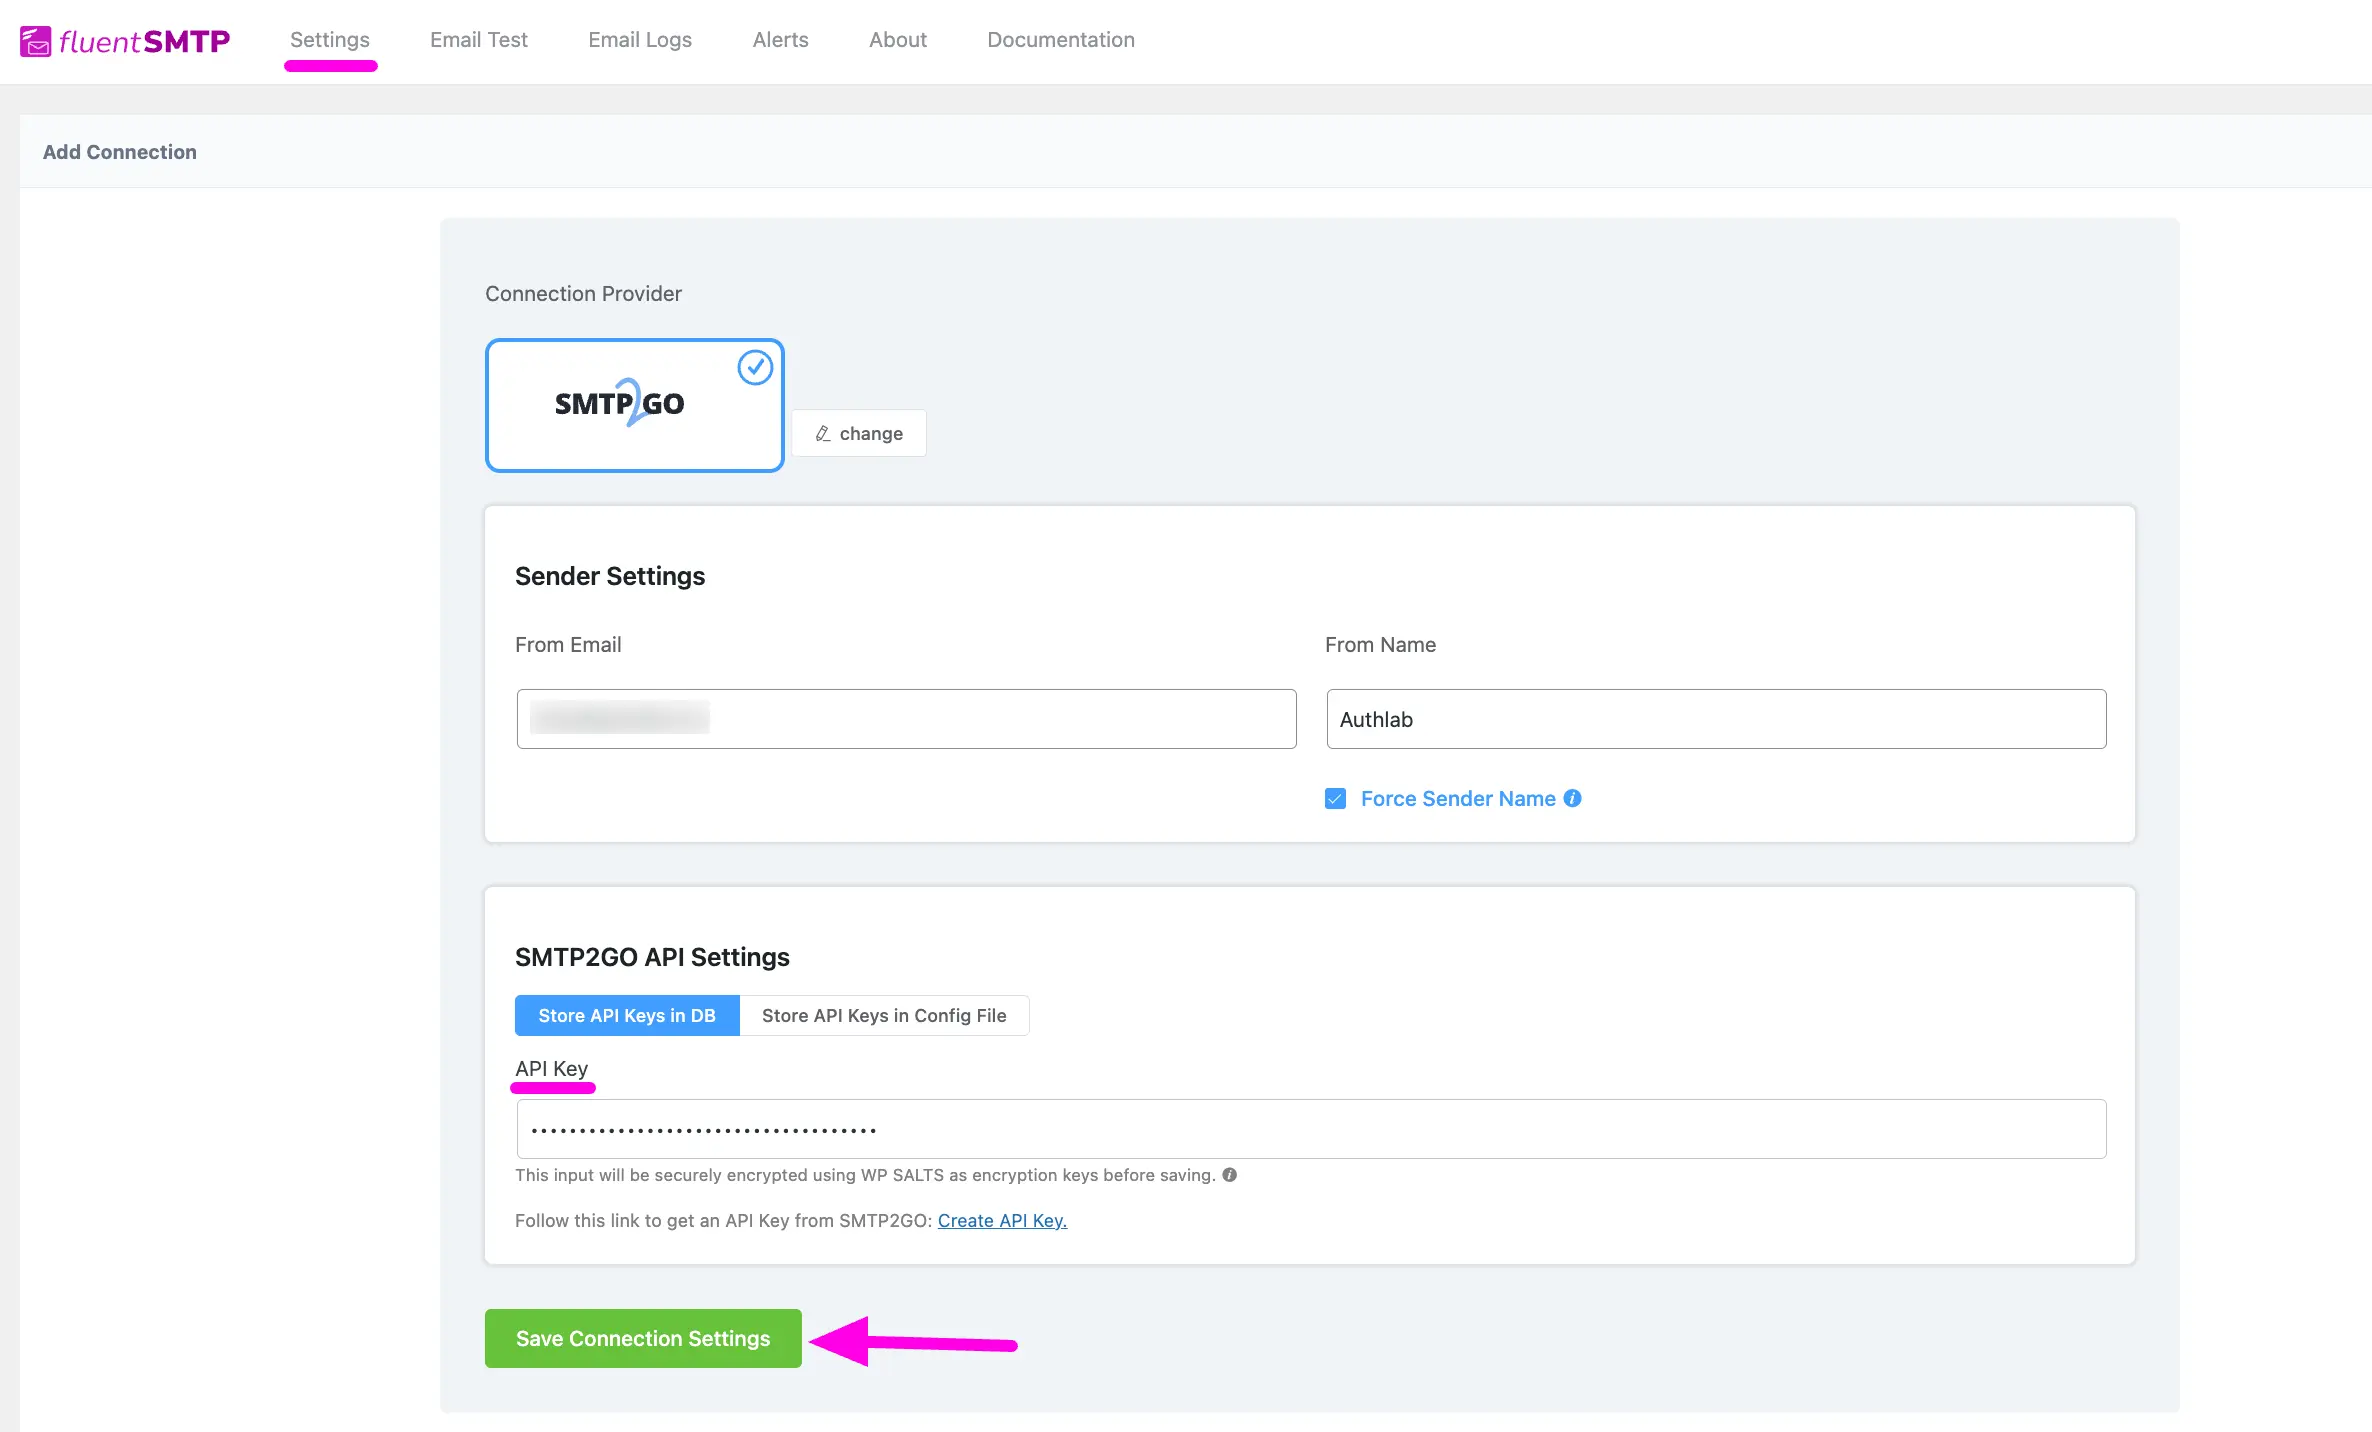
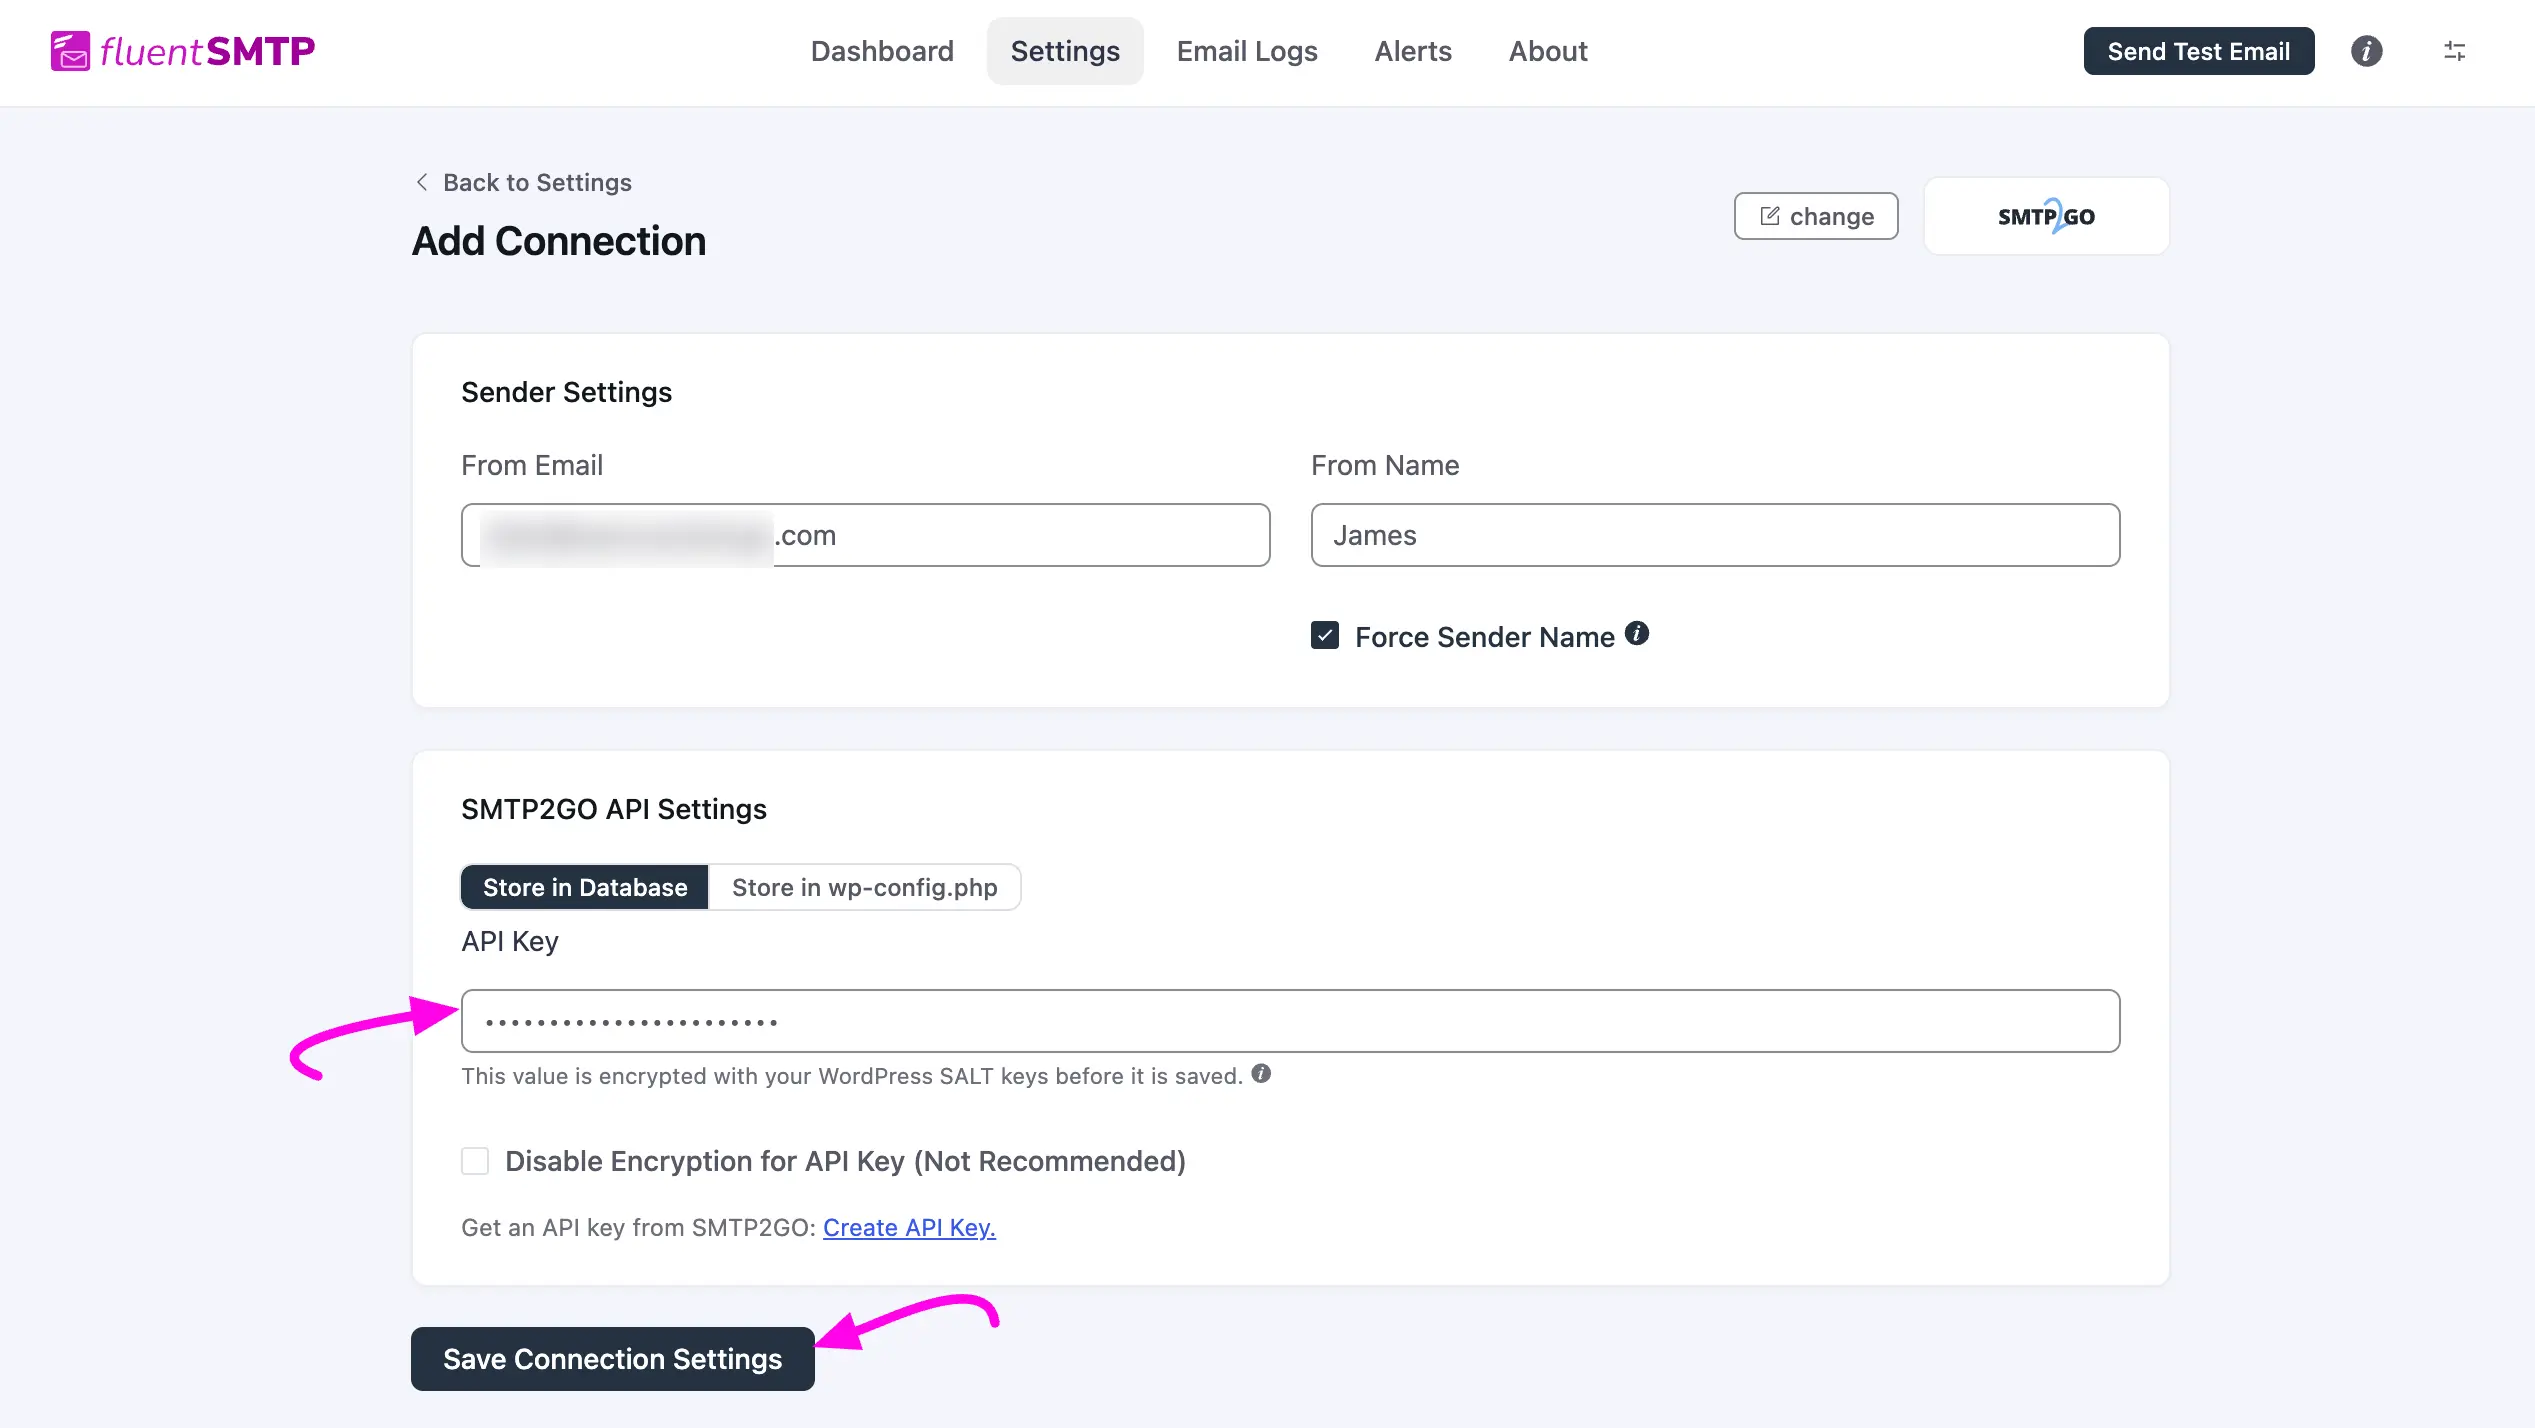
rewrite and image update Configure SMTP2GO in FluentSMTP to Send Emails doc

diff --git a/docs/delivery-connections/configure-smtp2go-in-fluentsmtp-to-send-emails.md b/docs/delivery-connections/configure-smtp2go-in-fluentsmtp-to-send-emails.md
@@ -1,100 +1,84 @@
 # Configure SMTP2GO in FluentSMTP to Send Emails
 
-With FluentSMTP, you can integrate SMTP2GO into WordPress to improve email deliverability and authenticity. SMTP2GO is a reliable email delivery service that helps businesses and website owners send emails successfully. This article will guide you through integrating SMTP2GO into WordPress using the FluentSMTP plugin to send emails via SMTP.
+With FluentSMTP, you can integrate **SMTP2GO** into WordPress to improve email deliverability and authenticity. SMTP2GO is a reliable email delivery service that helps businesses and website owners send emails successfully.
 
-## Configuring FluentSMTP for SMTP2GO
+This article will guide you through integrating SMTP2GO into WordPress using the FluentSMTP plugin to send emails via SMTP.
 
-To learn how to configure the **SMTP2GO** with **FluentSMTP.** follow the steps with screenshots below –
+## Configuring SMTP2GO
 
-First, go to **FluentSMTP** from **Settings** of **WordPress** **Dashboard** in the left sidebar, and select **SMTP2GO** from the given **Connection Providers**.
+Go to **Settings** in the FluentSMTP top bar. If you haven't set up any connection yet, the setup wizard opens automatically. Otherwise, click the **+ Add Connection** button.
 
-![Fluentsmtp Dashboard Scaled](/images/delivery-connections/configure-smtp2go-in-fluentsmtp-to-send-emails/1.-FluentSMTP-Dashboard-scaled.webp)
+![Settings Page With Add Connection Button in FluentSMTP](/images/delivery-connections/configure-smtp2go-in-fluentsmtp-to-send-emails/add-connection-1.webp)
 
-But if you are already connected to any email service provider, go to the **Settings** section from the **FluentSMTP Navbar** and click the **+ Add Another Connection** button**.**
+Then select the **SMTP2GO** icon from the provider grid.
 
-![Add Another Connection Settings Tab Scaled](/images/delivery-connections/configure-smtp2go-in-fluentsmtp-to-send-emails/2.-Add-Another-Connection-Settings-tab-scaled.webp)
+![SMTP2GO Highlighted in the Add Connection Provider Grid](/images/delivery-connections/configure-smtp2go-in-fluentsmtp-to-send-emails/select-smtp2go-2.webp)
 
-Click the **SMTP2GO** tab to connect to this provider.
+> [!Note]
+> If you want to change the connection provider, click the **change** button next to the provider logo at the top of the page.
 
-![Add Smtp2Go Connection Scaled](/images/delivery-connections/configure-smtp2go-in-fluentsmtp-to-send-emails/3.-Add-SMTP2GO-connection-scaled.webp)
+This opens the connection form, where you provide:
 
-After you choose the provider, it will take you to the **Add Connection** page where you will get all the options to connect your SMTP2GO.
+- **From Email** and **From Name**
+- **Force Sender Name**: Uses this connection's **From Name**, whatever name the sending plugin set.
+- **API Key**: Obtained from your SMTP2GO account via the **Create API Key** link, described in the next section.
 
-> Additionally, if you want to change the connection provider, simply click the **Change** button right next to the SMTP2GO tab at the top of the page. 
+![Sender Settings and SMTP2GO API Settings on the Add Connection Form](/images/delivery-connections/configure-smtp2go-in-fluentsmtp-to-send-emails/add-credetials-3.webp)
 
-Here, you need to provide –
-
-- **From Email**: The “From Email” should be the email you verified with SMTP2GO.
-
-- **From Name**: From name, you can choose anything you want. You can use a combination of your name and company name.
-
-- **Force Sender Name**: Check the box to align the return path with the form. This setting indicates where bounce messages are sent. If unchecked, bounce messages will be lost. When enabled, you will receive an email at the "From Email" address for any bounced messages due to recipient email issues.
-
-- **API Key**: The API Key has to be obtained from the SMTP2GO. You can click the [Create API Key](https://app-eu.smtp2go.com/sending/apikeys/) link under the API Key box to get it.
-
-Once you provide all the necessary information, click the **Save Connection Settings** button and your SMTP2GO will be connected with your Fluent SMTP plugin. 
-
-![Add Connection Page](/images/delivery-connections/configure-smtp2go-in-fluentsmtp-to-send-emails/4.-Add-connection-page.webp)
+The rest of this guide walks through getting the **API Key** from SMTP2GO, then pasting it into this form.
 
 ### Verify Your Domain in SMTP2GO
 
-Before you collect the API Key to send emails, you will need to add a Verified Sender to your account.  To learn how to verify the site domain, follow the steps below – 
+Before you can create an API Key, SMTP2GO requires a Verified Sender on your account. To learn how to verify your domain, follow the steps below –
 
-First, log into your [SMTP2GO Account](https://app.smtp2go.com/), open the **Sending** section from the left sidebar, select the **Verified Senders** tab, and press the **Add a Sender domain** button to add your desired domain for verification.
+First, log into your [SMTP2GO Account](https://app.smtp2go.com/), open the **Sending** section from the left sidebar, select **Verified Senders**, and click the **Add a sender domain** button to add your desired domain for verification.
 
-![Verified Senders Scaled](/images/delivery-connections/configure-smtp2go-in-fluentsmtp-to-send-emails/5.-Verified-Senders-scaled.webp)
+![Add a Verified Sender in SMTP2GO Dashboard](/images/delivery-connections/configure-smtp2go-in-fluentsmtp-to-send-emails/5.-Verified-Senders-scaled.webp)
 
-Now, provide ur site domain here and click the **Continue with this domain** button.
+Now, provide your site domain and click the **Continue with this domain** button.
 
-![Continue With This Domain Button Scaled](/images/delivery-connections/configure-smtp2go-in-fluentsmtp-to-send-emails/6.-Continue-with-this-Domain-button-scaled.webp)
+![Continue With This Domain Button in SMTP2GO](/images/delivery-connections/configure-smtp2go-in-fluentsmtp-to-send-emails/6.-Continue-with-this-Domain-button-scaled.webp)
 
-After confirming your domain, SMTP2GO will then provide you with three **CNAME** records that you need to **Copy** and **add** to your **Site Domain’s DNS Settings**. 
+After confirming your domain, SMTP2GO will provide you with **CNAME** records that you need to **copy** and add to your site domain's DNS settings.
 
-> **Remember**, this domain authorization process by adding the **CNAME** records is crucial for protecting site owners and their visitors from spam and ensuring reliable email delivery. To learn more about **DNS (Domain Name System/Server**), read this [article](https://fluentsmtp.com/articles/email-dns-settings/).
+> [!Note]
+> This domain authorization process, adding the CNAME records, is crucial for protecting site owners and their visitors from spam and ensuring reliable email delivery. To learn more about DNS, read this [article](https://fluentsmtp.com/articles/email-dns-settings/).
 
-Once you have added these CNAME records to the Site’s DNS Settings, click the **Verify** button, and your domain will be verified.
+Once you have added these CNAME records to your site's DNS settings, click the **Verify** button, and your domain will be verified.
 
-![Verify Button](/images/delivery-connections/configure-smtp2go-in-fluentsmtp-to-send-emails/7.-Verify-button.webp)
+![Verify Button in SMTP2GO Verified Senders](/images/delivery-connections/configure-smtp2go-in-fluentsmtp-to-send-emails/7.-Verify-button.webp)
 
-### Get SMTP2GO API Key 
+### Get SMTP2GO API Key
 
-After completing the domain verification, collect your API Key for completing the configuration. To learn how to get the API key, follow the steps with the screenshots below – 
+After completing domain verification, collect your API Key to finish the configuration. To learn how to get the API key, follow the steps with the screenshots below –
 
-First, log into your [SMTP2GO Account](https://app.smtp2go.com/), open the **Sending** section from the left sidebar, select the **API Keys** tab, and press the **Add API Key** button to get your desired API Key.
+First, log into your [SMTP2GO Account](https://app.smtp2go.com/), open the **Sending** section from the left sidebar, select the **API Keys** tab, and press the **Add API Key** button to create your desired API key.
 
-![Api Keys Scaled](/images/delivery-connections/configure-smtp2go-in-fluentsmtp-to-send-emails/8.-Api-Keys-scaled.webp)
+![API Keys Tab in SMTP2GO Dashboard](/images/delivery-connections/configure-smtp2go-in-fluentsmtp-to-send-emails/8.-Api-Keys-scaled.webp)
 
-Here, you will get your **API key** in the **API Key** box under the **Details** tab. Now, copy your API Key by clicking the **Copy** button.
+Give your **API Key** a **Description** as per your requirements and click the **Add API Key** button. Your key will then be created, so copy it using the **Copy** button.
 
-Then, give your **API Key** a **Description** as per your requirements and click the **Add API** **Key** button and your API will be created.
+![Copy API Key in SMTP2GO](/images/delivery-connections/configure-smtp2go-in-fluentsmtp-to-send-emails/9.-Copy-API-Key-scaled.webp)
 
-![Copy Api Key Scaled](/images/delivery-connections/configure-smtp2go-in-fluentsmtp-to-send-emails/9.-Copy-API-Key-scaled.webp)
+Then, go back to the **Add Connection** page under **Settings** in the FluentSMTP top bar, and **paste** the API Key you copied from SMTP2GO inside the **API Key** box.
 
-Then, go back to the desired **Add Connection** page under **Settings** from the **Fluent SMTP Navbar** and **paste** the API Key you copied from SMTP2GO inside the **API Key** box.
+Once you input all the necessary information, click the **Save Connection Settings** button. Your SMTP2GO server will be connected to your FluentSMTP.
 
-Once you input all the necessary information, finally, click the **Save Connection Settings** button and your SMTP2Go server will be connected to your Fluent SMTP.
-
-![Paste Api Key](/images/delivery-connections/configure-smtp2go-in-fluentsmtp-to-send-emails/10.-Paste-API-Key.webp)
+![Filled API Key Field With Save Connection Settings Button](/images/delivery-connections/configure-smtp2go-in-fluentsmtp-to-send-emails/10.-Paste-API-Key.webp)
 
 ## Details of SMTP2GO API Settings
 
-- **Store API Keys in DB**: By default, this is enabled and strongly recommended. This will keep the information in the Databases in Encrypted format.
+- **Store in Database**: By default, this is enabled and strongly recommended. This will keep the information in the database in encrypted format. Tick **Disable Encryption for API Key (Not Recommended)** only if a security plugin rotates your SALT keys and the encrypted value keeps breaking.
+- **Store in wp-config.php**: This allows you to store the access key inside the `wp-config.php` file by the following directive.
 
-- **Store API Keys in Config File**: This allows you to store the access keys in the following section inside the **wp-config.php file** by the following directives.
+Copy the snippet below, replace the stars with your own credential, and paste it into your site's `wp-config.php` file.
 
-Simply **copy** the **following** **snippet** and **replace** the **stars** **with** the **corresponding** **credential**. Then simply **paste** **it to the wp-config.php file** of your **WordPress** **installation**
-
+```
 define( 'FLUENTMAIL_SMTP2GO_API_KEY', '********************' );
+```
 
-![Smtp2Go Api Settings](/images/delivery-connections/configure-smtp2go-in-fluentsmtp-to-send-emails/11.-SMTP2GO-API-Settings.webp)
+![Store in wp-config.php View With define Snippet on the SMTP2GO Connection Form](/images/delivery-connections/configure-smtp2go-in-fluentsmtp-to-send-emails/11.-SMTP2GO-API-Settings.webp)
 
-## Configured SMTP2GO in FluentSMTP
+> To learn the details about **General Settings**, read this [documentation](/fluentsmtp-settings). Additionally, it is recommended to send a test email to check whether the configuration is successful. To learn how to send a test email in detail, read this [documentation](/introduction-to-fluentsmtp-dashboard).
 
-Here, you can see that your SMTP2GO is connected and ready to send emails from your WordPress site.
-
-> To learn the details about General Settings, read this [Documentation](/fluentsmtp-settings).
-Additionally, it is recommended to send a test email to check whether the configuration is successful or not, to learn how to send a test email in detail, read this [Documentation](/introduction-to-fluentsmtp-dashboard).
-
-![Configured Smtp2Go Scaled](/images/delivery-connections/configure-smtp2go-in-fluentsmtp-to-send-emails/12.-Configured-SMTP2GO-scaled.webp)
-
-That’s all about Configuring FluentSMTP with SMTP2GO to send emails from the WordPress website.
+That's all about configuring FluentSMTP with SMTP2GO to send emails from the WordPress website.
